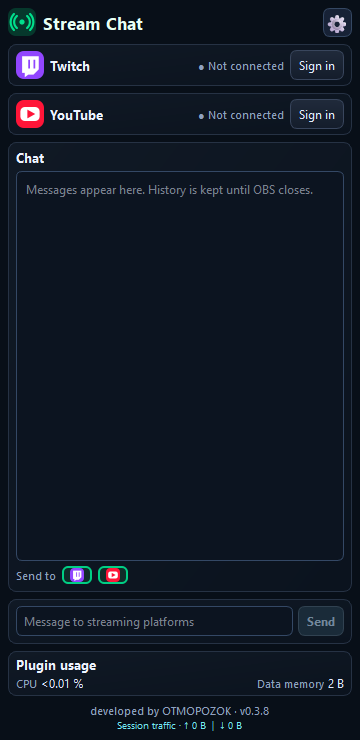
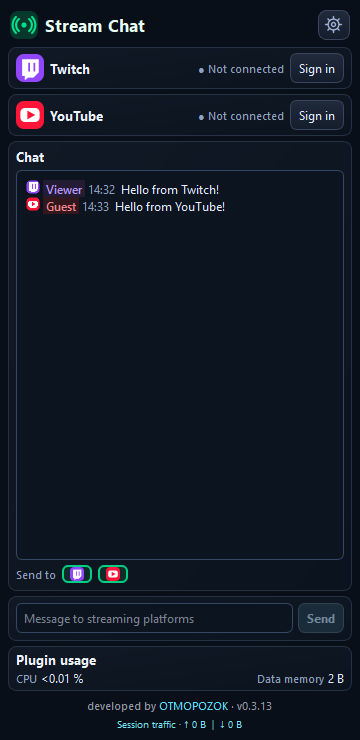
Refresh previews and avoid redraw when chat dock reopens

diff --git a/src/plugin-main.cpp b/src/plugin-main.cpp
@@ -315,7 +315,7 @@ public:
     }
     void setStreaming(bool active){if(streaming_==active)return;streaming_=active;seenThisStream_=false;twitch_.setStreamActive(active);youtube_.setStreamActive(active);refresh();}
 protected:
-    void showEvent(QShowEvent* event)override{QWidget::showEvent(event);setStreaming(anyStreamingOutput());twitch_.setVisible(true);youtube_.setVisible(true);QTimer::singleShot(0,this,[this]{if(isVisible()){twitch_.setVisible(true);youtube_.setVisible(true);refresh();}});trafficTimer_.start();updateTraffic();updateMetrics();if(!pending_.isEmpty())batch_.start();if(!emotes_.isEmpty())emoteRedraw_.start();}
+    void showEvent(QShowEvent* event)override{QWidget::showEvent(event);setStreaming(anyStreamingOutput());twitch_.setVisible(true);youtube_.setVisible(true);QTimer::singleShot(0,this,[this]{if(isVisible()){twitch_.setVisible(true);youtube_.setVisible(true);refresh();}});trafficTimer_.start();updateTraffic();updateMetrics();if(!pending_.isEmpty())batch_.start();if(emotesDirty_)emoteRedraw_.start();}
     void hideEvent(QHideEvent* event)override{twitch_.setVisible(false);youtube_.setVisible(false);batch_.stop();trafficTimer_.stop();emoteRedraw_.stop();if(activeSends_)delivery_->setText(english_?"Dock hidden: delivery unconfirmed. No automatic retry.":"Панель скрыта: результат отправки не подтверждён. Автоматического повтора нет.");activeSends_=0;refresh();QWidget::hideEvent(event);}
 private:
     void applyChatTextSize(){
@@ -405,7 +405,7 @@ private:
             QPixmap image;if(ok)image.loadFromData(bytes,"PNG");reply->deleteLater();
             if(image.isNull()||image.width()>128||image.height()>128){failedEmotes_.insert(id);return;}
             emotes_.insert(id,image.scaled(20,20,Qt::KeepAspectRatio,Qt::SmoothTransformation));
-            if(isVisible()&&!emoteRedraw_.isActive())emoteRedraw_.start();
+            emotesDirty_=true;if(isVisible()&&!emoteRedraw_.isActive())emoteRedraw_.start();
         });
     }
     void updateMetrics(){
@@ -430,7 +430,7 @@ private:
         messages_->document()->addResource(QTextDocument::ImageResource,QUrl("stream-chat://icon/twitch"),messagePlatformIcon("Twitch"));
         messages_->document()->addResource(QTextDocument::ImageResource,QUrl("stream-chat://icon/youtube"),messagePlatformIcon("YouTube"));
         for(const auto& message:history_)appendMessage(message,false);
-        bar->setValue(bottom?bar->maximum():oldPosition);redrawing_=false;updateScrollButton();
+        bar->setValue(bottom?bar->maximum():oldPosition);redrawing_=false;emotesDirty_=false;updateScrollButton();
     }
     void appendMessage(const sc::ChatMessage& message,bool fresh=true){
         auto* bar=messages_->verticalScrollBar();const bool bottom=atBottom();const int oldPosition=bar->value();
@@ -503,7 +503,7 @@ private:
     sc::TwitchChat twitch_;sc::YouTubeChat youtube_;QStackedLayout* pages_=nullptr;QTextEdit* messages_=nullptr;QLabel* twitchStatus_=nullptr;QLabel* youtubeStatus_=nullptr;QLabel* twitchViewers_=nullptr;QLabel* youtubeViewers_=nullptr;QLabel* code_=nullptr;QLabel* delivery_=nullptr;QLabel* totalCount_=nullptr;QLabel* twitchCount_=nullptr;QLabel* youtubeCount_=nullptr;QLabel* traffic_=nullptr;QLabel* cpuValue_=nullptr;QLabel* memoryValue_=nullptr;QLabel* chatTitle_=nullptr;QLabel* recipientHint_=nullptr;QLabel* usageTitle_=nullptr;QLabel* memoryName_=nullptr;QWidget* usageCard_=nullptr;QPushButton* settings_=nullptr;QPushButton* scrollBottom_=nullptr;
     QLineEdit* input_=nullptr;QAbstractButton* target_=nullptr;QPushButton* send_=nullptr;QPushButton* login_=nullptr;QPushButton* logout_=nullptr;
     QAbstractButton* youtubeTarget_=nullptr;QComboBox* broadcast_=nullptr;QPushButton* googleLogin_=nullptr;QPushButton* googleLogout_=nullptr;
-    QQueue<sc::ChatMessage> history_,pending_;QTimer batch_,trafficTimer_,emoteRedraw_;QElapsedTimer usageClock_;QNetworkAccessManager emoteHttp_;QHash<QString,QPixmap> emotes_;QSet<QString> pendingEmotes_,failedEmotes_;std::uint64_t lastCpuNs_=0;int activeSends_=0,unread_=0,textScale_=100;bool allSent_=false,twitchSent_=false,youtubeSent_=false;bool streaming_=false,seenThisStream_=false,english_=false,redrawing_=false;QString language_="auto";quint64 twitchMessages_=0,youtubeMessages_=0;QStringList results_;
+    QQueue<sc::ChatMessage> history_,pending_;QTimer batch_,trafficTimer_,emoteRedraw_;QElapsedTimer usageClock_;QNetworkAccessManager emoteHttp_;QHash<QString,QPixmap> emotes_;QSet<QString> pendingEmotes_,failedEmotes_;std::uint64_t lastCpuNs_=0;int activeSends_=0,unread_=0,textScale_=100;bool allSent_=false,twitchSent_=false,youtubeSent_=false;bool streaming_=false,seenThisStream_=false,english_=false,redrawing_=false,emotesDirty_=false;QString language_="auto";quint64 twitchMessages_=0,youtubeMessages_=0;QStringList results_;
 };
 #ifndef STREAM_CHAT_PREVIEW
 QPointer<ChatDock> dock;QString tlsPath;

diff --git a/docs/README_EN.md b/docs/README_EN.md
@@ -4,7 +4,7 @@
 
 ![Stream Chat English interface](screenshots/chat-en.png)
 
-*Version 0.3.10 UI preview from an isolated test host; no live channels are connected.* [Russian interface](screenshots/chat-ru.png).
+*Version 0.3.13 UI preview from an isolated test host; messages and connections are sample data.* [Russian interface](screenshots/chat-ru.png) · [Settings](screenshots/settings-en.png).
 
 ## Features
 
@@ -12,14 +12,15 @@
 - Scrolling up holds your place. A down button counts new messages and takes you back to the latest ones.
 - Send text to Twitch, YouTube, or both connected chats. Both destinations are selected by default.
 - YouTube chat discovery starts after the broadcast begins. Viewer counts appear during a stream when the service provides them.
+- If the YouTube streaming connection stops delivering data, the plugin switches to the official chat polling API at a limited rate.
 - Sign in through a browser without copying tokens. Account data stays on this PC and is protected by Windows.
 - Settings include **Auto / Russian / English** and text size with a live preview. Message history is cleared when OBS closes.
 
 ## Verified status
 
 - OBS 33 on Windows x64 loads the plugin. Twitch sign-in, real messages, and viewer count were checked during a stream on version 0.3.8.
-- Google browser sign-in was confirmed. Reading and sending YouTube chat during a real broadcast still need validation.
-- Version 0.3.10 is built and tested in CI; its new interface features still need a live OBS check.
+- Google browser sign-in was confirmed. The YouTube polling fallback still needs validation during a real broadcast.
+- Version 0.3.13 is built and UI-tested in CI; live YouTube chat still needs confirmation.
 
 ## Install
 

diff --git a/README.md b/README.md
@@ -4,7 +4,7 @@
 
 ![Панель Stream Chat на русском](docs/screenshots/chat-ru.png)
 
-*Снимок интерфейса 0.3.10 создан в тестовом окружении без подключения к каналам.* [Английский интерфейс](docs/screenshots/chat-en.png).
+*Снимок интерфейса 0.3.13 создан в тестовом окружении; сообщения и подключения демонстрационные.* [Английский интерфейс](docs/screenshots/chat-en.png) · [Настройки](docs/screenshots/settings-ru.png).
 
 ## Возможности
 
@@ -20,7 +20,7 @@
 
 - OBS 33 на Windows x64 загружает плагин. Вход в Twitch, реальные сообщения и счётчик зрителей проверены во время эфира на версии 0.3.8.
 - Вход в Google через браузер подтверждён. Чтение сообщений через запасной путь YouTube API требует проверки во время реального эфира.
-- Версия 0.3.10 проходит автоматическую сборку и тесты; её новые элементы интерфейса пока ждут проверки в OBS на реальном канале.
+- Версия 0.3.13 проходит автоматическую сборку и тесты интерфейса; резервный путь YouTube ожидает проверки в OBS во время реального эфира.
 
 ## Установка
 
